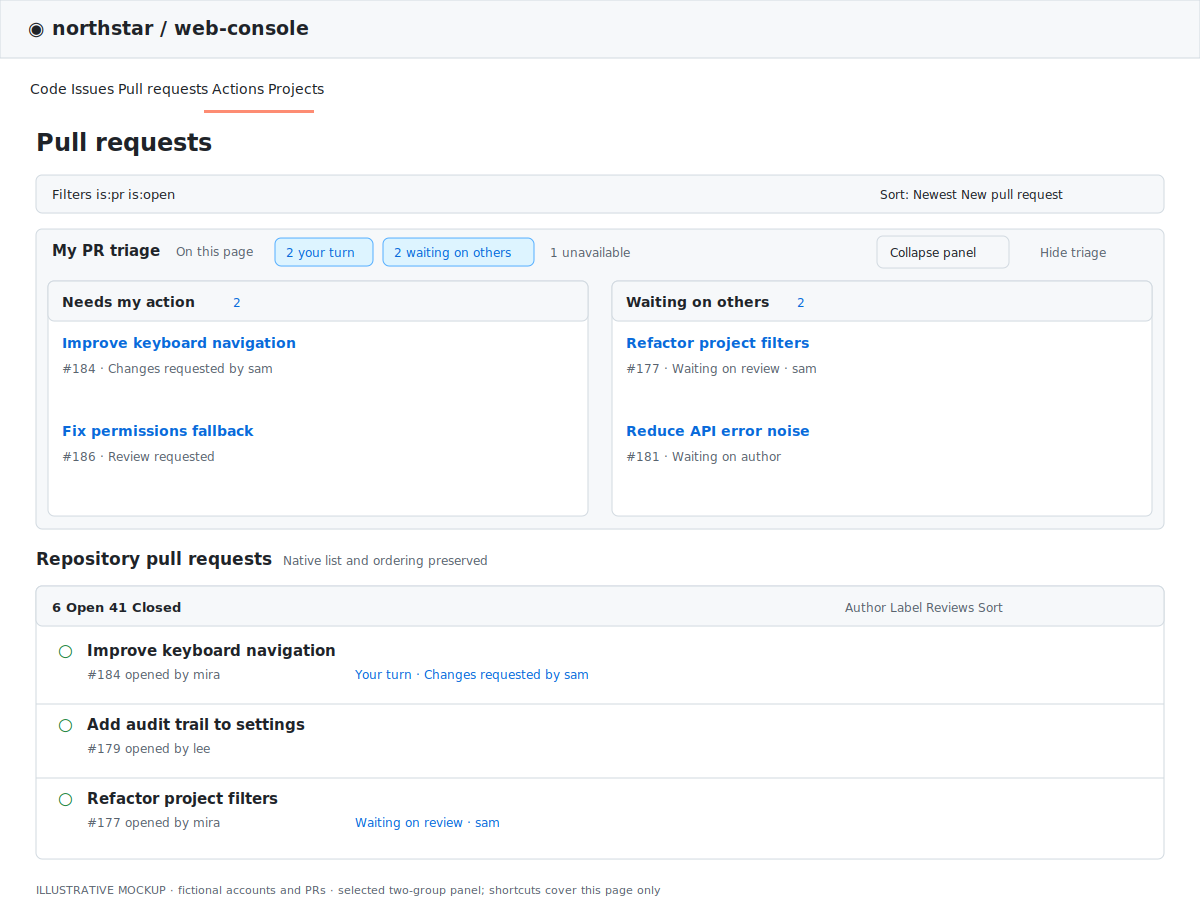
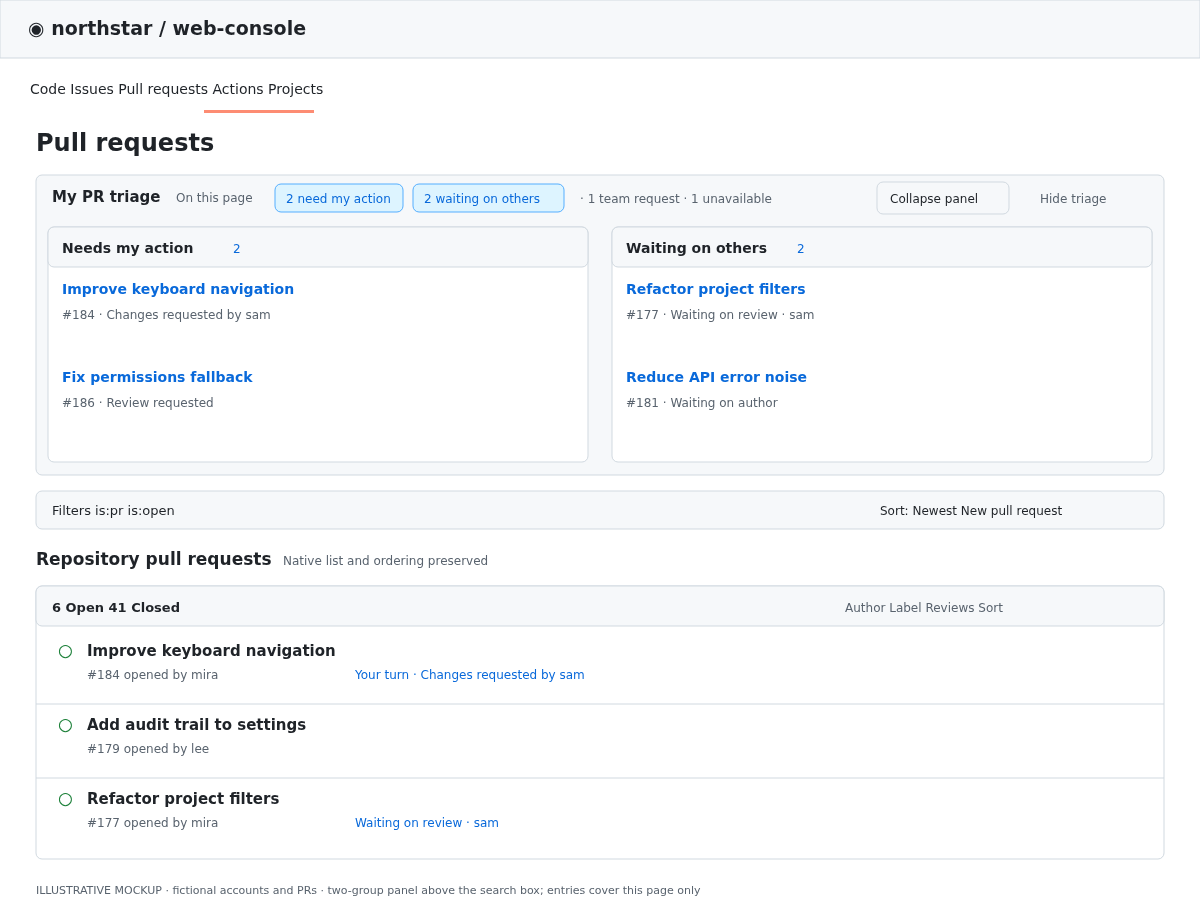
docs: redraw the PR triage mockup with the panel above the search box

diff --git a/README.md b/README.md
@@ -165,13 +165,13 @@ On GitHub's own **My Issues** dashboard (`github.com/issues`), adds a `List | Gr
 
 ### PR triage — [features/pr-triage](features/pr-triage)
 
-On a repository's own **Pull requests** page (`github.com/<owner>/<repo>/pulls`), a compact **My PR triage** panel above the native list groups **Needs my action** and **Waiting on others**. Each shortcut links to the PR and shows its number and specific next-action reason. Counts cover **On this page** only: five entries per group are shown initially, with **Show more / Show fewer** for the remaining loaded rows. **Collapse panel** keeps the header and counts visible; expanding restores the groups. Existing row labels provide context while browsing the native list below. Native search, filters, sorting, pagination, order and actions stay intact. On by default; **Hide triage** on the page, or the switch in Settings → Features, removes panel and labels through the existing saved preference. Collapse and expanded groups are temporary and reset for a different query or repository.
+On a repository's own **Pull requests** page (`github.com/<owner>/<repo>/pulls`), a compact **My PR triage** panel sits above the search box and groups the open PRs on the current page into **Needs my action** and **Waiting on others**. Each entry links to the PR and shows its number and the specific reason ("Review requested", "Changes requested by sam", "Waiting on author"). The header counts both groups, plus team requests and PRs that could not be read; five entries per group are shown, with **Show more / Show fewer** for the rest of the loaded rows. **Collapse panel** keeps the header and counts visible. The one-label-per-row context stays in the native list below. Search, filters, sorting, pagination, order and actions are untouched. On by default; **Hide triage** on the page, or the switch in Settings → Features, removes panel and labels through the existing saved preference. Collapse and expanded groups are temporary: they survive filter and page changes in the same repository and reset in another repository or after a reload.
 
-![PR triage: two compact groups, Needs my action and Waiting on others, above the unchanged native Pull requests list. Counts refer only to the current page; each entry links to its PR and gives the personal next-action reason.](screenshots/pr-triage.png)
+![PR triage: two compact groups, Needs my action and Waiting on others, above the search box and the unchanged native Pull requests list. Counts refer only to the current page; each entry links to its PR and gives the personal next-action reason.](screenshots/pr-triage.png)
 
 - A PR gets at most one placement, the **author role first**. As author: `Your turn` when a reviewer's latest review requests changes and they were not asked again, when the checks fail, or when the branch conflicts; `Waiting on review` (naming reviewers and teams) or `Waiting on checks` otherwise. As reviewer: `Your turn · Review requested` when you are asked (also after your own earlier "changes requested"); `Waiting on author` after you requested changes, with a note when there are new commits since (commits alone never make it your turn). A team request alone shows a neutral `Team review requested` (membership is not checked and it is counted in neither group). Approved, green, or a draft with no blocker: no placement. There is no "ready to merge" and no unread status, ever.
 - Review facts come from one batched GraphQL query per page of visible PR numbers (25 per query, two in flight, cached for 60 seconds), with the token mapped to the repository owner or the default one. The native list never waits for it: the panel says `Loading review data…` first. Without a token, with a refusal or a rate limit, the panel says what is missing and the rows get no guessed label; a single PR that cannot be read says `Triage unavailable`. Needs a token with **Pull requests: Read** (and read access to commit statuses or checks for the checks rollup).
-- Only open and draft rows of the repository's list are triaged; the closed and merged tabs and the global `github.com/pulls` page are left alone. Rows are found through `data-testid` hooks and ARIA labels, never CSS-module classes; if an anchor is missing, nothing is rendered until the next scan.
+- Only open and draft rows of the repository's list are triaged; the closed and merged tabs and the global `github.com/pulls` page are left alone. Rows are found through `data-testid` hooks and ARIA labels, never CSS-module classes; if an anchor (the page's `Pull requests` search landmark for the panel) is missing, nothing is rendered until the next scan.
 
 More features will land as their own entries here, each in its own folder under `features/` (and `background/` for anything they need server-side). See [Contributing](#contributing) for the shape a new one takes.
 
